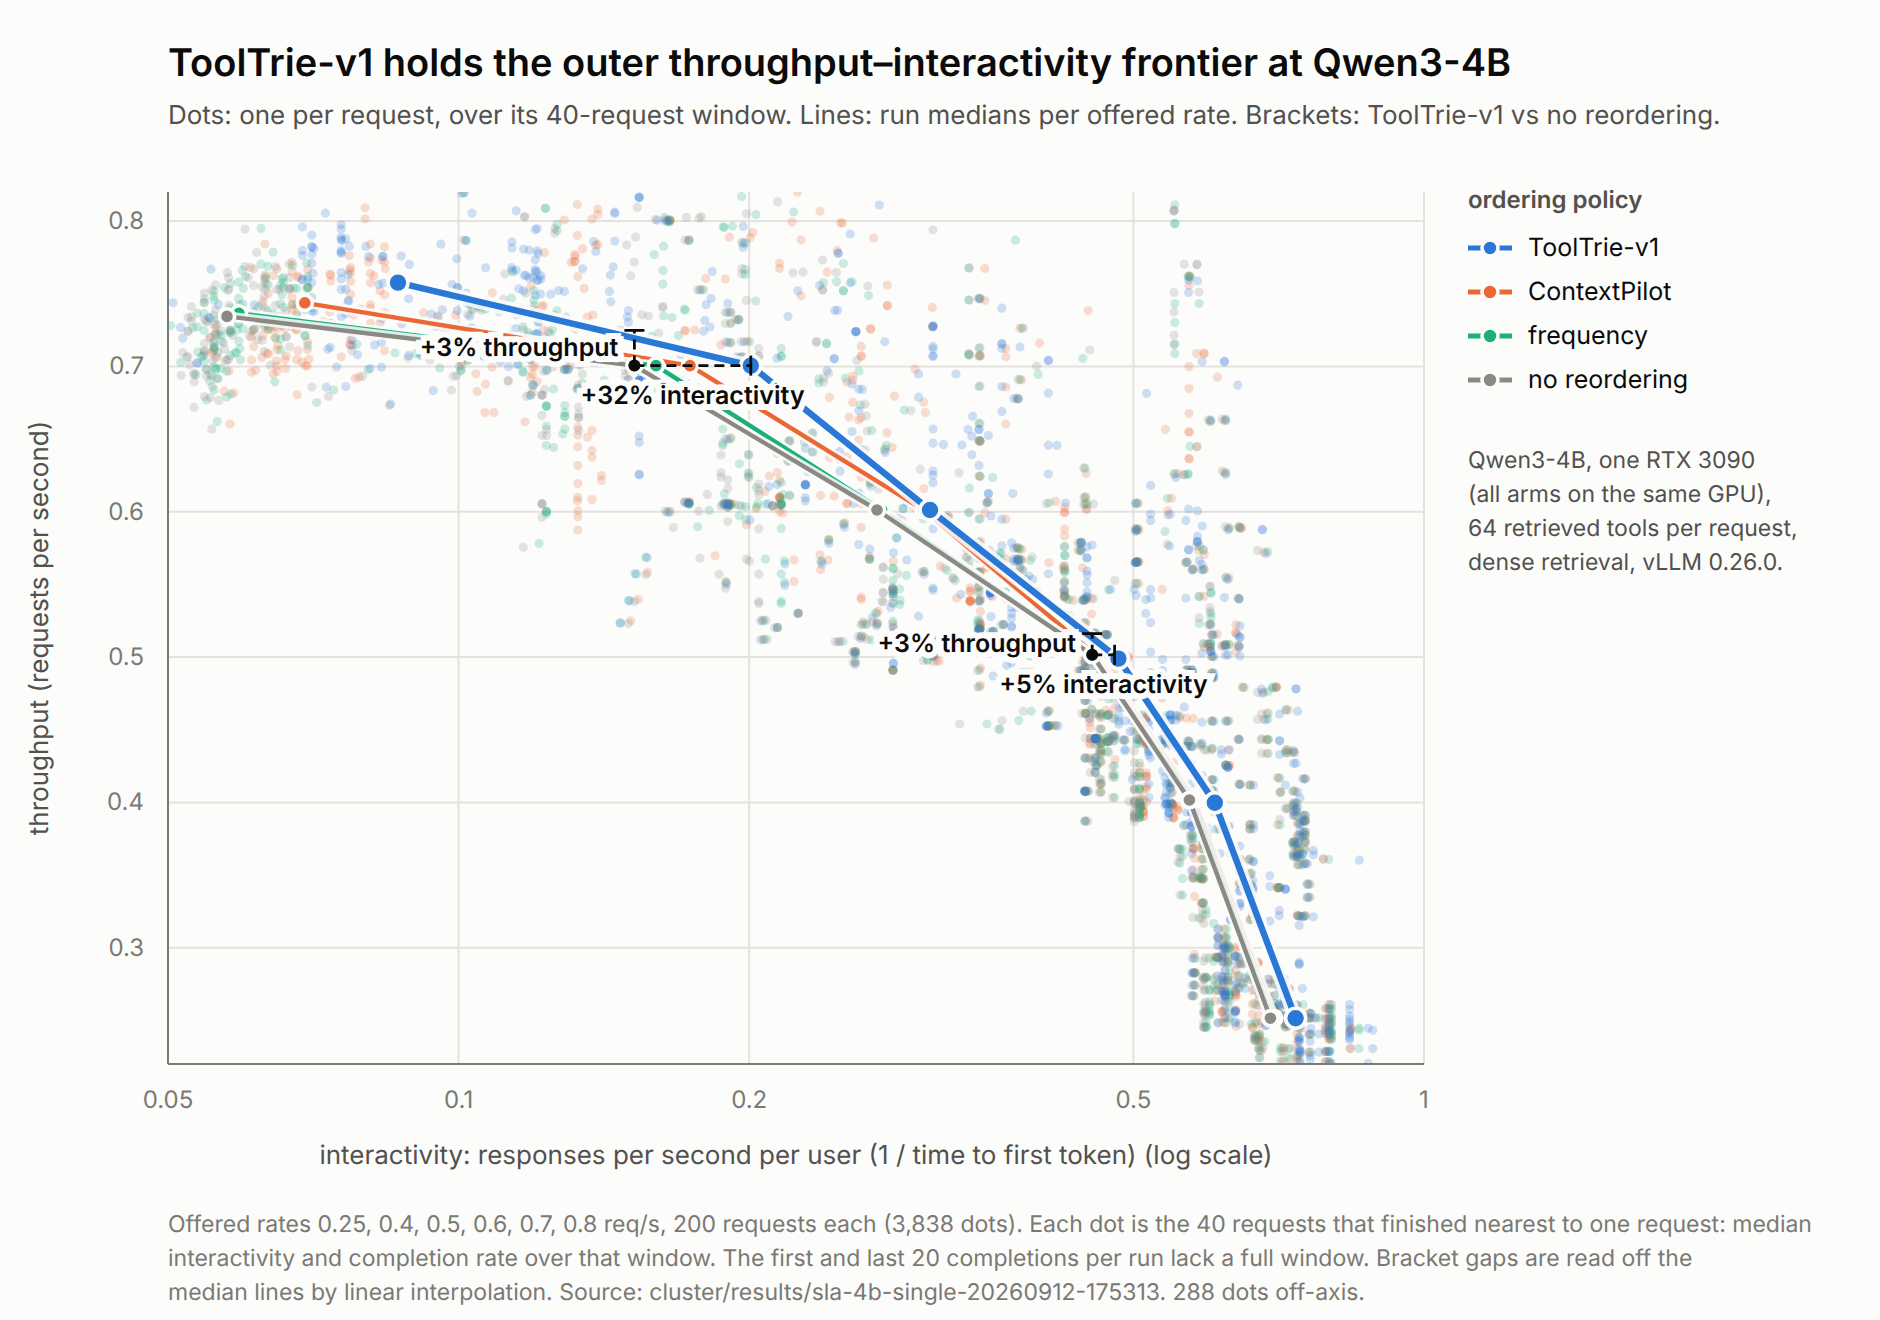
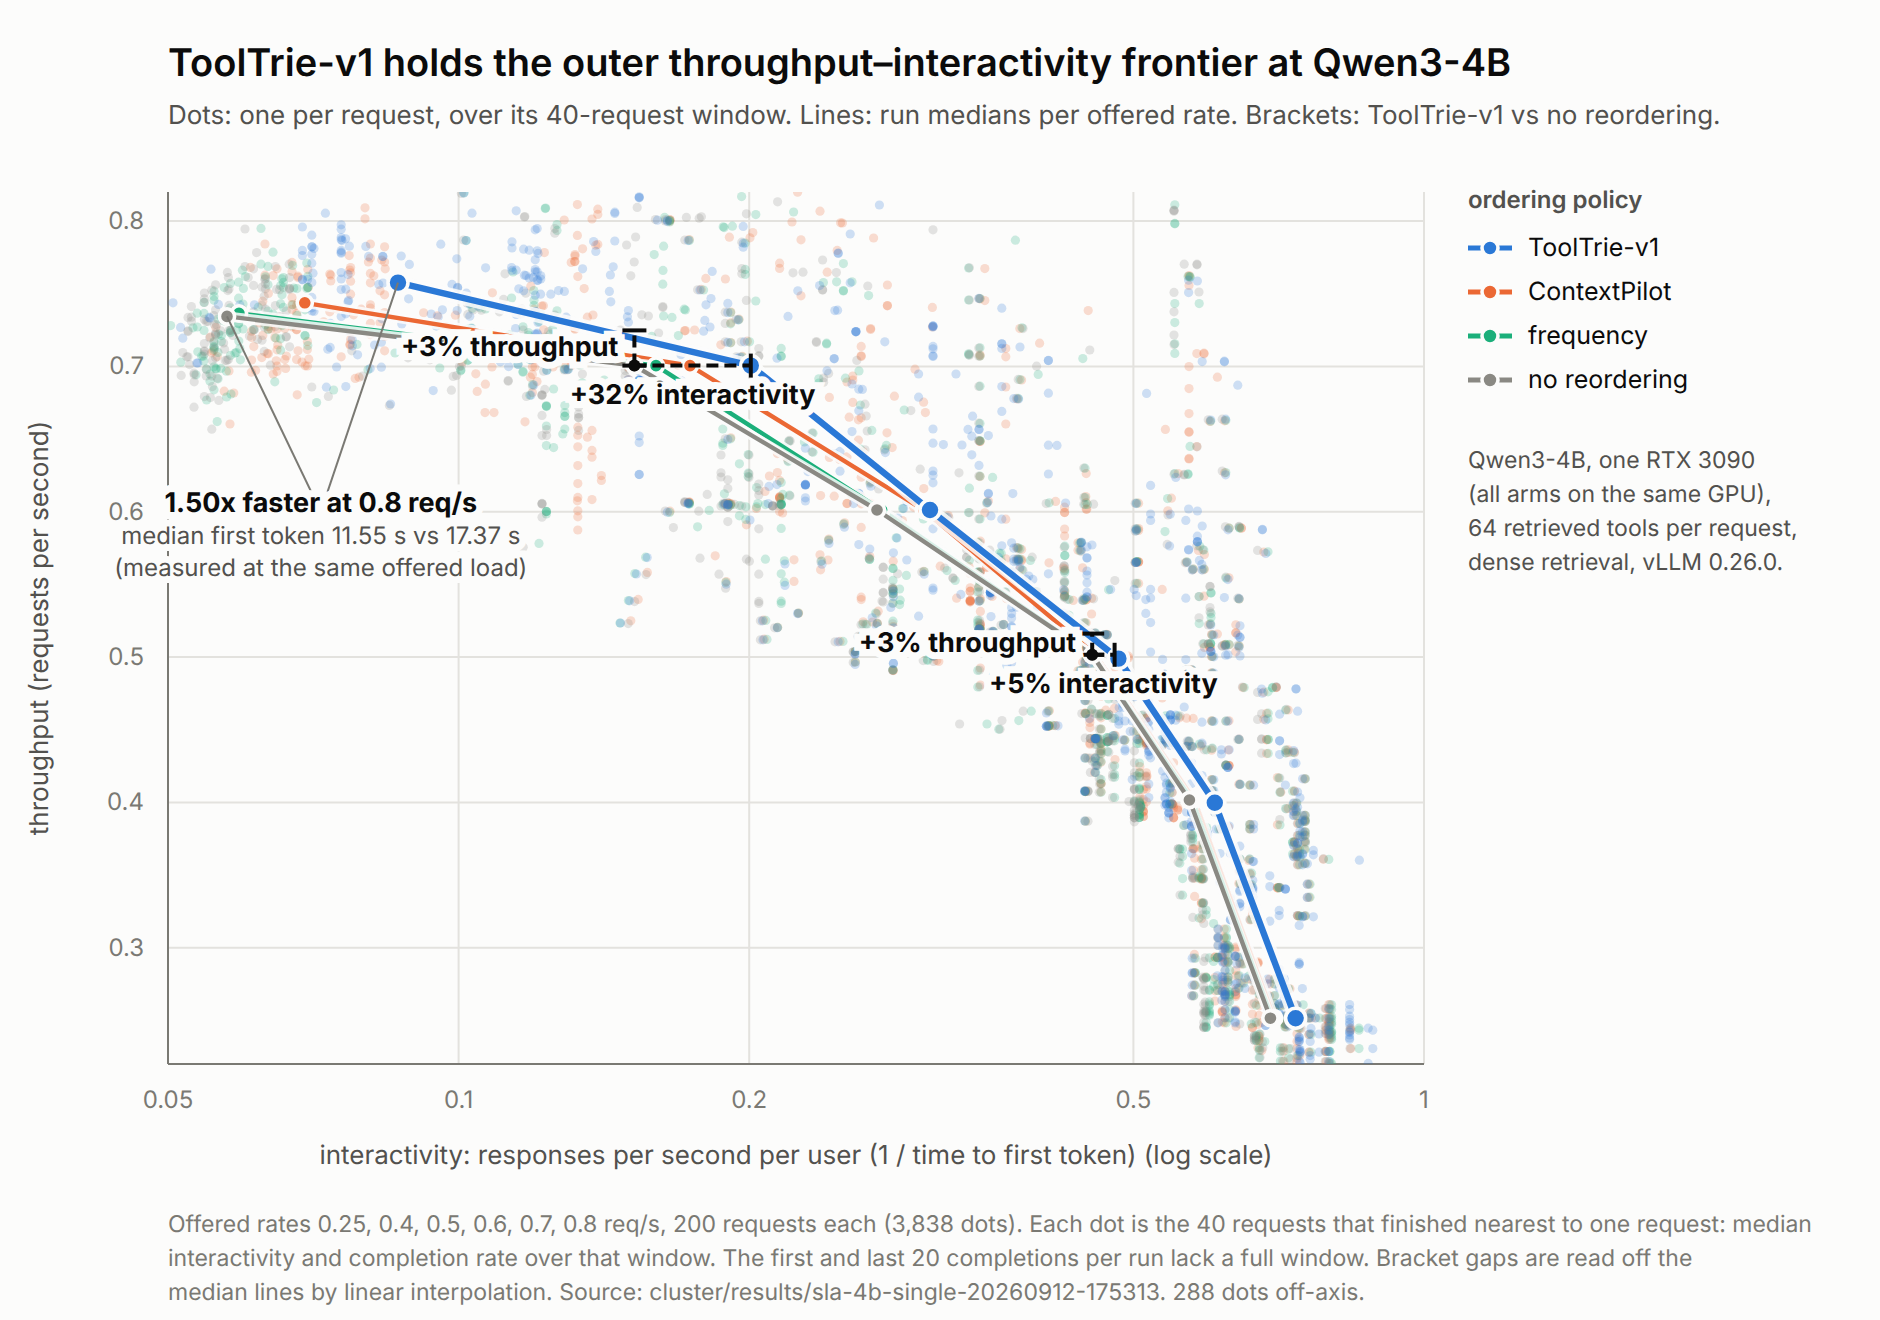
Strengthen the 4B frontier annotations
Brackets are drawn heavier (2px dashed legs, end caps on both ends of the
vertical leg) and labelled at 13.5px weight 700 with a wider halo, so the
measured gaps read at a glance without changing any geometry or value.

Adds a measured callout at the saturated end: 1.50x faster at 0.8 req/s,
median first token 11.55 s vs 17.37 s, with leaders to the two points it
names. Unlike the brackets this involves no interpolation - both arms are at
the same offered load.

Claude-Session: https://claude.ai/code/session_01JFSPZ9BZWacof7vnpPb4ve

Changed region(s): [[0.0617, 0.3727, 0.2777, 0.4348], [0.216, 0.2485, 0.4319, 0.3106], [0.4628, 0.4659, 0.6479, 0.528]]

diff --git a/scripts/plot_throughput_frontier.py b/scripts/plot_throughput_frontier.py
@@ -72,6 +72,10 @@ CONFIGS = {
         xlim=(0.05, 1.0), ylim=(0.22, 0.82),
         xticks=[0.05, 0.1, 0.2, 0.5, 1.0], yticks=[0.3, 0.4, 0.5, 0.6, 0.7, 0.8], yfmt=".1f",
         brackets=[0.7, 0.5],
+        callout=dict(at=0.8, tx=0.072, ty=0.60,
+                     text=["1.50x faster at 0.8 req/s",
+                           "median first token 11.55 s vs 17.37 s",
+                           "(measured at the same offered load)"]),
         caption=["Qwen3-4B, one RTX 3090", "(all arms on the same GPU),",
                  "64 retrieved tools per request,", "dense retrieval, vLLM 0.26.0."],
         rates_text="0.25, 0.4, 0.5, 0.6, 0.7, 0.8",
@@ -216,22 +220,35 @@ def main() -> None:
     for rate in cfg["brackets"]:
         _, ax, ay = next(v for v in trend[BASELINE] if abs(v[0] - rate) < 1e-9)
         by, cx = interp(y_at_x, ax), interp(x_at_y, ay)
-        dash = f'stroke="{INK}" stroke-width="1.4" stroke-dasharray="5 3" fill="none"'
+        dash = f'stroke="{INK}" stroke-width="2" stroke-dasharray="6 3" fill="none"'
         if by is not None:   # vertical leg: throughput at the same interactivity
             s.append(f'<line x1="{sx(ax):.1f}" y1="{sy(ay):.1f}" x2="{sx(ax):.1f}" y2="{sy(by):.1f}" {dash}/>')
-            s.append(f'<line x1="{sx(ax)-5:.1f}" y1="{sy(by):.1f}" x2="{sx(ax)+5:.1f}" y2="{sy(by):.1f}" stroke="{INK}" stroke-width="1.4"/>')
+            s.append(f'<line x1="{sx(ax)-6:.1f}" y1="{sy(by):.1f}" x2="{sx(ax)+6:.1f}" y2="{sy(by):.1f}" stroke="{INK}" stroke-width="2"/>')
+            s.append(f'<line x1="{sx(ax)-6:.1f}" y1="{sy(ay):.1f}" x2="{sx(ax)+6:.1f}" y2="{sy(ay):.1f}" stroke="{INK}" stroke-width="2"/>')
             dy = 100 * (by / ay - 1)
-            s.append(f'<text x="{sx(ax)-8:.1f}" y="{(sy(ay)+sy(by))/2+4:.1f}" font-size="12.5" font-weight="600" fill="{INK}" '
-                     f'text-anchor="end" paint-order="stroke" stroke="{SURFACE}" stroke-width="6">{dy:+.0f}% throughput</text>')
+            s.append(f'<text x="{sx(ax)-8:.1f}" y="{(sy(ay)+sy(by))/2+4:.1f}" font-size="13.5" font-weight="700" fill="{INK}" '
+                     f'text-anchor="end" paint-order="stroke" stroke="{SURFACE}" stroke-width="7">{dy:+.0f}% throughput</text>')
             report.append(f"at {rate:g} no-reordering vertex: throughput {dy:+.1f}%")
         if cx is not None:   # horizontal leg: interactivity at the same throughput
             s.append(f'<line x1="{sx(ax):.1f}" y1="{sy(ay):.1f}" x2="{sx(cx):.1f}" y2="{sy(ay):.1f}" {dash}/>')
-            s.append(f'<line x1="{sx(cx):.1f}" y1="{sy(ay)-5:.1f}" x2="{sx(cx):.1f}" y2="{sy(ay)+5:.1f}" stroke="{INK}" stroke-width="1.4"/>')
+            s.append(f'<line x1="{sx(cx):.1f}" y1="{sy(ay)-6:.1f}" x2="{sx(cx):.1f}" y2="{sy(ay)+6:.1f}" stroke="{INK}" stroke-width="2"/>')
             dx = 100 * (cx / ax - 1)
-            s.append(f'<text x="{(sx(ax)+sx(cx))/2:.1f}" y="{sy(ay)+19:.1f}" font-size="12.5" font-weight="600" fill="{INK}" '
-                     f'text-anchor="middle" paint-order="stroke" stroke="{SURFACE}" stroke-width="6">{dx:+.0f}% interactivity</text>')
+            s.append(f'<text x="{(sx(ax)+sx(cx))/2:.1f}" y="{sy(ay)+19:.1f}" font-size="13.5" font-weight="700" fill="{INK}" '
+                     f'text-anchor="middle" paint-order="stroke" stroke="{SURFACE}" stroke-width="7">{dx:+.0f}% interactivity</text>')
             report.append(f"at {rate:g} no-reordering vertex: interactivity {dx:+.1f}%")
         s.append(f'<circle cx="{sx(ax):.1f}" cy="{sy(ay):.1f}" r="3" fill="{INK}"/>')
+
+    call = cfg.get("callout")
+    if call:  # measured, not interpolated: both arms at the same offered load
+        _, vx, vy = next(v for v in trend[FOCUS] if abs(v[0] - call["at"]) < 1e-9)
+        _, bx2, by2 = next(v for v in trend[BASELINE] if abs(v[0] - call["at"]) < 1e-9)
+        tx0, ty0 = sx(call["tx"]), sy(call["ty"])
+        for px, py in ((vx, vy), (bx2, by2)):
+            s.append(f'<line x1="{tx0:.1f}" y1="{ty0:.1f}" x2="{sx(px):.1f}" y2="{sy(py):.1f}" stroke="{INK3}" stroke-width="1"/>')
+        for i, line in enumerate(call["text"]):
+            s.append(f'<text x="{tx0:.1f}" y="{ty0 + 16 * i:.1f}" font-size="{13.5 if i == 0 else 12}" '
+                     f'font-weight="{700 if i == 0 else 400}" fill="{INK if i == 0 else INK2}" text-anchor="middle" '
+                     f'paint-order="stroke" stroke="{SURFACE}" stroke-width="7">{line}</text>')
 
     # legend
     lx0, ly0 = W - R + 22, T + 8
